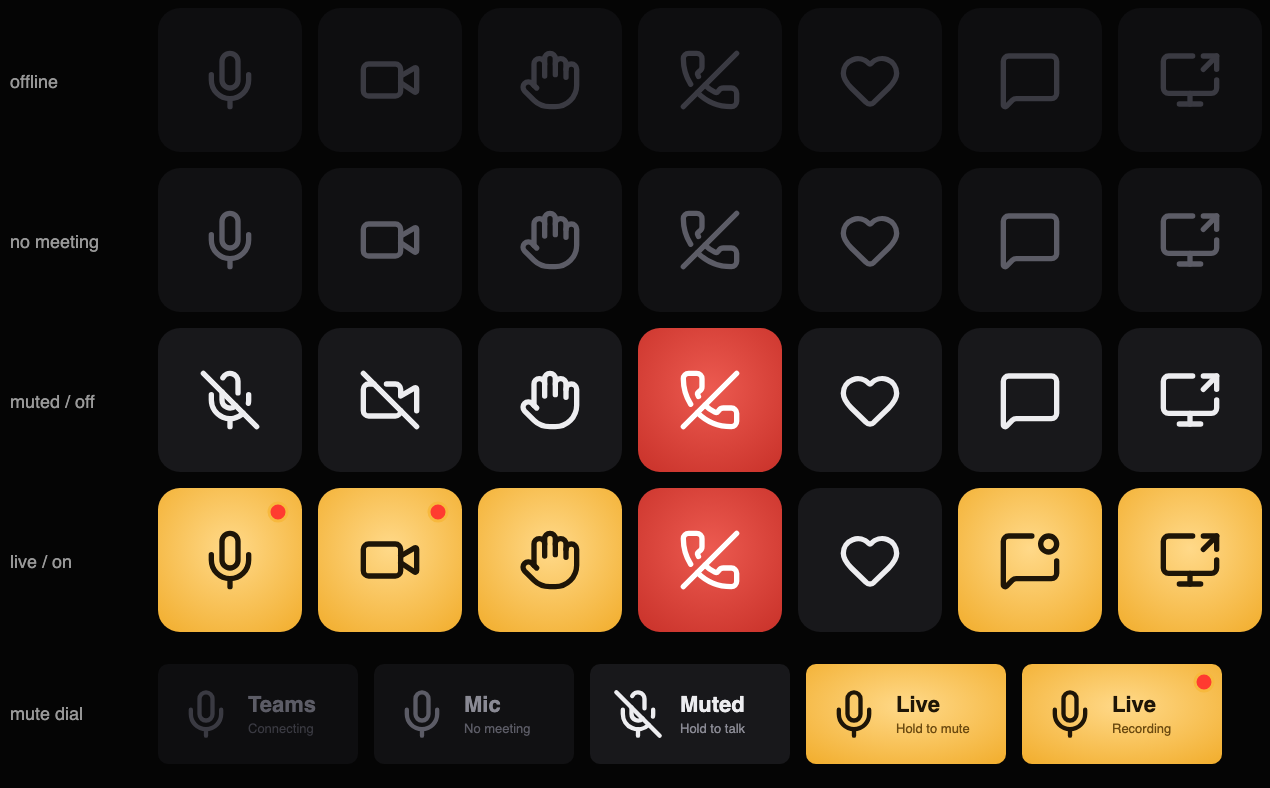
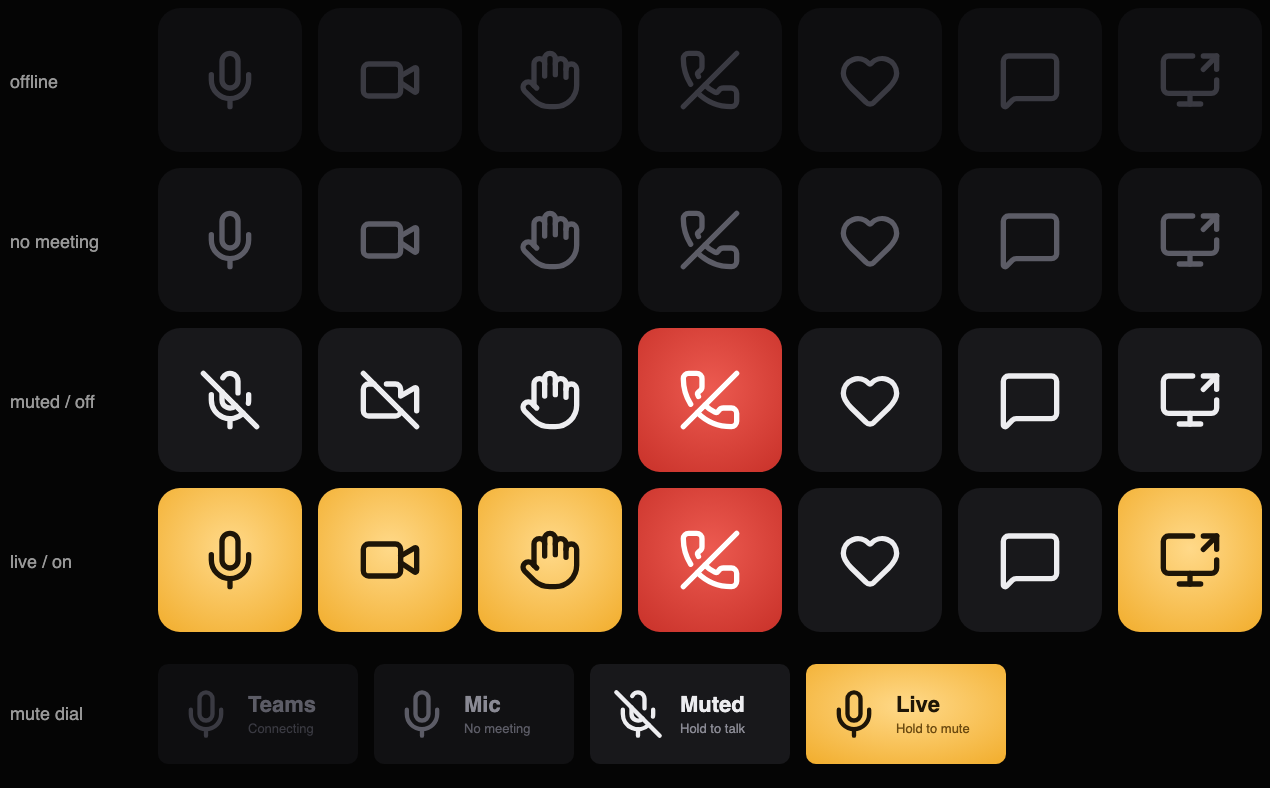
Remove dead recording state; README image and tooltips show only what works
Copilot-Session: 81a3ef85-5087-4504-80c7-94c4d45ce779

Changed region(s): [[0.737, 0.6091, 0.9827, 0.9746], [0.3378, 0.6396, 0.3685, 0.6701], [0.215, 0.6396, 0.2457, 0.6701]]

diff --git a/src/render/key.ts b/src/render/key.ts
@@ -23,8 +23,6 @@ export type KeyKind = (typeof KEY_KINDS)[number];
 export interface Visual {
 	tone: Tone;
 	glyph: GlyphName;
-	/** Red dot: the meeting is being recorded. Shown only on mic and camera. */
-	recording: boolean;
 }
 
 export const OFFLINE_SNAPSHOT: Snapshot = { online: false, state: EMPTY_STATE, permissions: NO_PERMISSIONS };
@@ -41,7 +39,6 @@ const REACTION_GLYPHS: Record<Reaction, GlyphName> = {
 export function visualFor(kind: KeyKind, snapshot: Snapshot, options: { reaction?: Reaction } = {}): Visual {
 	const { online, state, permissions: can } = snapshot;
 	const live = online && state.isInMeeting;
-	const recording = live && state.isRecordingOn && (kind === "mute" || kind === "camera");
 
 	// [glyph when on/neutral, glyph when off, available now?, currently on?]
 	const spec: Record<KeyKind, [GlyphName, GlyphName, boolean, boolean | "action" | "danger"]> = {
@@ -62,11 +59,11 @@ export function visualFor(kind: KeyKind, snapshot: Snapshot, options: { reaction
 
 	const [onGlyph, offGlyph, available, current] = spec[kind];
 
-	if (!online) return { tone: "offline", glyph: onGlyph, recording };
-	if (!live || !available) return { tone: "idle", glyph: onGlyph, recording };
-	if (current === "danger") return { tone: "danger", glyph: onGlyph, recording };
-	if (current === "action") return { tone: "ready", glyph: onGlyph, recording };
-	return current ? { tone: "on", glyph: onGlyph, recording } : { tone: "off", glyph: offGlyph, recording };
+	if (!online) return { tone: "offline", glyph: onGlyph };
+	if (!live || !available) return { tone: "idle", glyph: onGlyph };
+	if (current === "danger") return { tone: "danger", glyph: onGlyph };
+	if (current === "action") return { tone: "ready", glyph: onGlyph };
+	return current ? { tone: "on", glyph: onGlyph } : { tone: "off", glyph: offGlyph };
 }
 
 // ── Drawing ────────────────────────────────────────────────────────────────
@@ -104,12 +101,6 @@ function background(tone: Tone, width: number, height: number): string {
 		`<defs><radialGradient id="g" cx="50%" cy="42%" r="75%"><stop offset="0" stop-color="${glow[0]}"/><stop offset="1" stop-color="${glow[1]}"/></radialGradient></defs>` +
 		`<rect width="${width}" height="${height}" fill="url(#g)"/>`
 	);
-}
-
-/** Red "being recorded" dot, ringed so it separates from the amber background as well as the dark ones. */
-function recordingBadge(visual: Visual, cx: number, cy: number): string {
-	if (!visual.recording) return "";
-	return `<circle data-badge="recording" cx="${cx}" cy="${cy}" r="9" fill="#FF3B30" stroke="${INK[visual.tone].bg}" stroke-width="3"/>`;
 }
 
 /** Temporary marks over a key: how far through a hold, or a one-word hint. */
@@ -155,7 +146,6 @@ export function keySvg(visual: Visual, overlay: KeyOverlay = {}): string {
 		SIZE,
 		background(visual.tone, SIZE, SIZE) +
 			glyphGroup(visual.glyph, ink, offset, offset, GLYPH_SIZE) +
-			recordingBadge(visual, 120, 24) +
 			(overlay.progress === undefined ? "" : progressRing(overlay.progress, ink)) +
 			(overlay.hint ? hintText(overlay.hint, ink) : ""),
 	);
@@ -202,7 +192,6 @@ export function muteDialFeedback(snapshot: Snapshot): DialFeedback {
 	const [label, detail] =
 		visual.tone === "offline" ? OFFLINE_TEXT[snapshot.reason ?? "starting"]
 		: visual.tone === "idle" ? ["Mic", state.isInMeeting ? "Not available" : "No meeting"]
-		: visual.recording ? [state.isMuted ? "Muted" : "Live", "Recording"]
 		: state.isMuted ? ["Muted", "Hold to talk"]
 		: ["Live", "Hold to mute"];
 
@@ -210,8 +199,7 @@ export function muteDialFeedback(snapshot: Snapshot): DialFeedback {
 		200,
 		100,
 		background(visual.tone, 200, 100) +
-			glyphGroup(visual.glyph, INK[visual.tone].glyph, 22, 24, 52) +
-			recordingBadge(visual, 182, 18),
+			glyphGroup(visual.glyph, INK[visual.tone].glyph, 22, 24, 52),
 	);
 
 	return {

diff --git a/test/key.test.ts b/test/key.test.ts
@@ -66,13 +66,6 @@ describe("visualFor", () => {
 		expect(visualFor("share", inMeeting({ isSharing: true }, { canToggleShareTray: false })).tone).toBe("on");
 	});
 
-	it("flags recording on the mic and camera keys only", () => {
-		const recording = inMeeting({ isRecordingOn: true });
-		expect(visualFor("mute", recording).recording).toBe(true);
-		expect(visualFor("camera", recording).recording).toBe(true);
-		expect(visualFor("hand", recording).recording).toBe(false);
-		expect(visualFor("mute", inMeeting()).recording).toBe(false);
-	});
 });
 
 describe("keySvg", () => {
@@ -91,11 +84,10 @@ describe("keySvg", () => {
 		expect(stroke(keySvg(visualFor("hand", offline)))).not.toBe(ready);
 	});
 
-	it("renders a 144px square SVG with the glyph and, when recording, a badge", () => {
-		const svg = keySvg(visualFor("mute", inMeeting({ isRecordingOn: true })));
+	it("renders a 144px square SVG with the glyph", () => {
+		const svg = keySvg(visualFor("mute", inMeeting()));
 		expect(svg).toMatch(/^<svg[^>]+viewBox="0 0 144 144"/);
-		expect(svg).toContain('data-badge="recording"');
-		expect(keySvg(visualFor("mute", inMeeting()))).not.toContain("data-badge");
+		expect(svg).toContain('stroke="#1E1507"');
 	});
 
 	it("draws hold progress as a ring and a hint as a word under the glyph", () => {
@@ -112,10 +104,6 @@ describe("muteDialFeedback", () => {
 	it("says what the mic is doing and what holding will do", () => {
 		expect(text(muteDialFeedback(inMeeting({ isMuted: false })))).toEqual(["Live", "Hold to mute"]);
 		expect(text(muteDialFeedback(inMeeting({ isMuted: true })))).toEqual(["Muted", "Hold to talk"]);
-	});
-
-	it("puts recording ahead of the hint", () => {
-		expect(text(muteDialFeedback(inMeeting({ isRecordingOn: true })))).toEqual(["Live", "Recording"]);
 	});
 
 	it("explains why it's inactive", () => {

diff --git a/scripts/sheet.ts b/scripts/sheet.ts
@@ -10,7 +10,7 @@ const rows: [string, any, object?][] = [
 	["offline", OFFLINE_SNAPSHOT],
 	["no meeting", { online: true, state: EMPTY_STATE, permissions: NO_PERMISSIONS }],
 	["muted / off", meet({ isMuted: true })],
-	["live / on", meet({ isVideoOn: true, isHandRaised: true, hasUnreadMessages: true, isSharing: true, isRecordingOn: true })],
+	["live / on", meet({ isVideoOn: true, isHandRaised: true, isSharing: true })],
 ];
 const cell = 160, pad = 8, label = 150;
 let body = "";
@@ -28,7 +28,6 @@ const dialStates: [string, any][] = [
 	["no meeting", { online: true, state: EMPTY_STATE, permissions: NO_PERMISSIONS }],
 	["muted", meet({ isMuted: true })],
 	["live", meet()],
-	["live, recording", meet({ isRecordingOn: true })],
 ];
 const dialTop = rows.length * cell + 24;
 body += `<text x="10" y="${dialTop + 56}" fill="#999" font-family="Helvetica" font-size="18">mute dial</text>`;

diff --git a/src/teams/protocol.ts b/src/teams/protocol.ts
@@ -45,7 +45,6 @@ export interface MeetingState {
 	isVideoOn: boolean;
 	isHandRaised: boolean;
 	isInMeeting: boolean;
-	isRecordingOn: boolean;
 	isSharing: boolean;
 	hasUnreadMessages: boolean;
 }
@@ -67,7 +66,6 @@ export const EMPTY_STATE: MeetingState = {
 	isVideoOn: false,
 	isHandRaised: false,
 	isInMeeting: false,
-	isRecordingOn: false,
 	isSharing: false,
 	hasUnreadMessages: false,
 };
